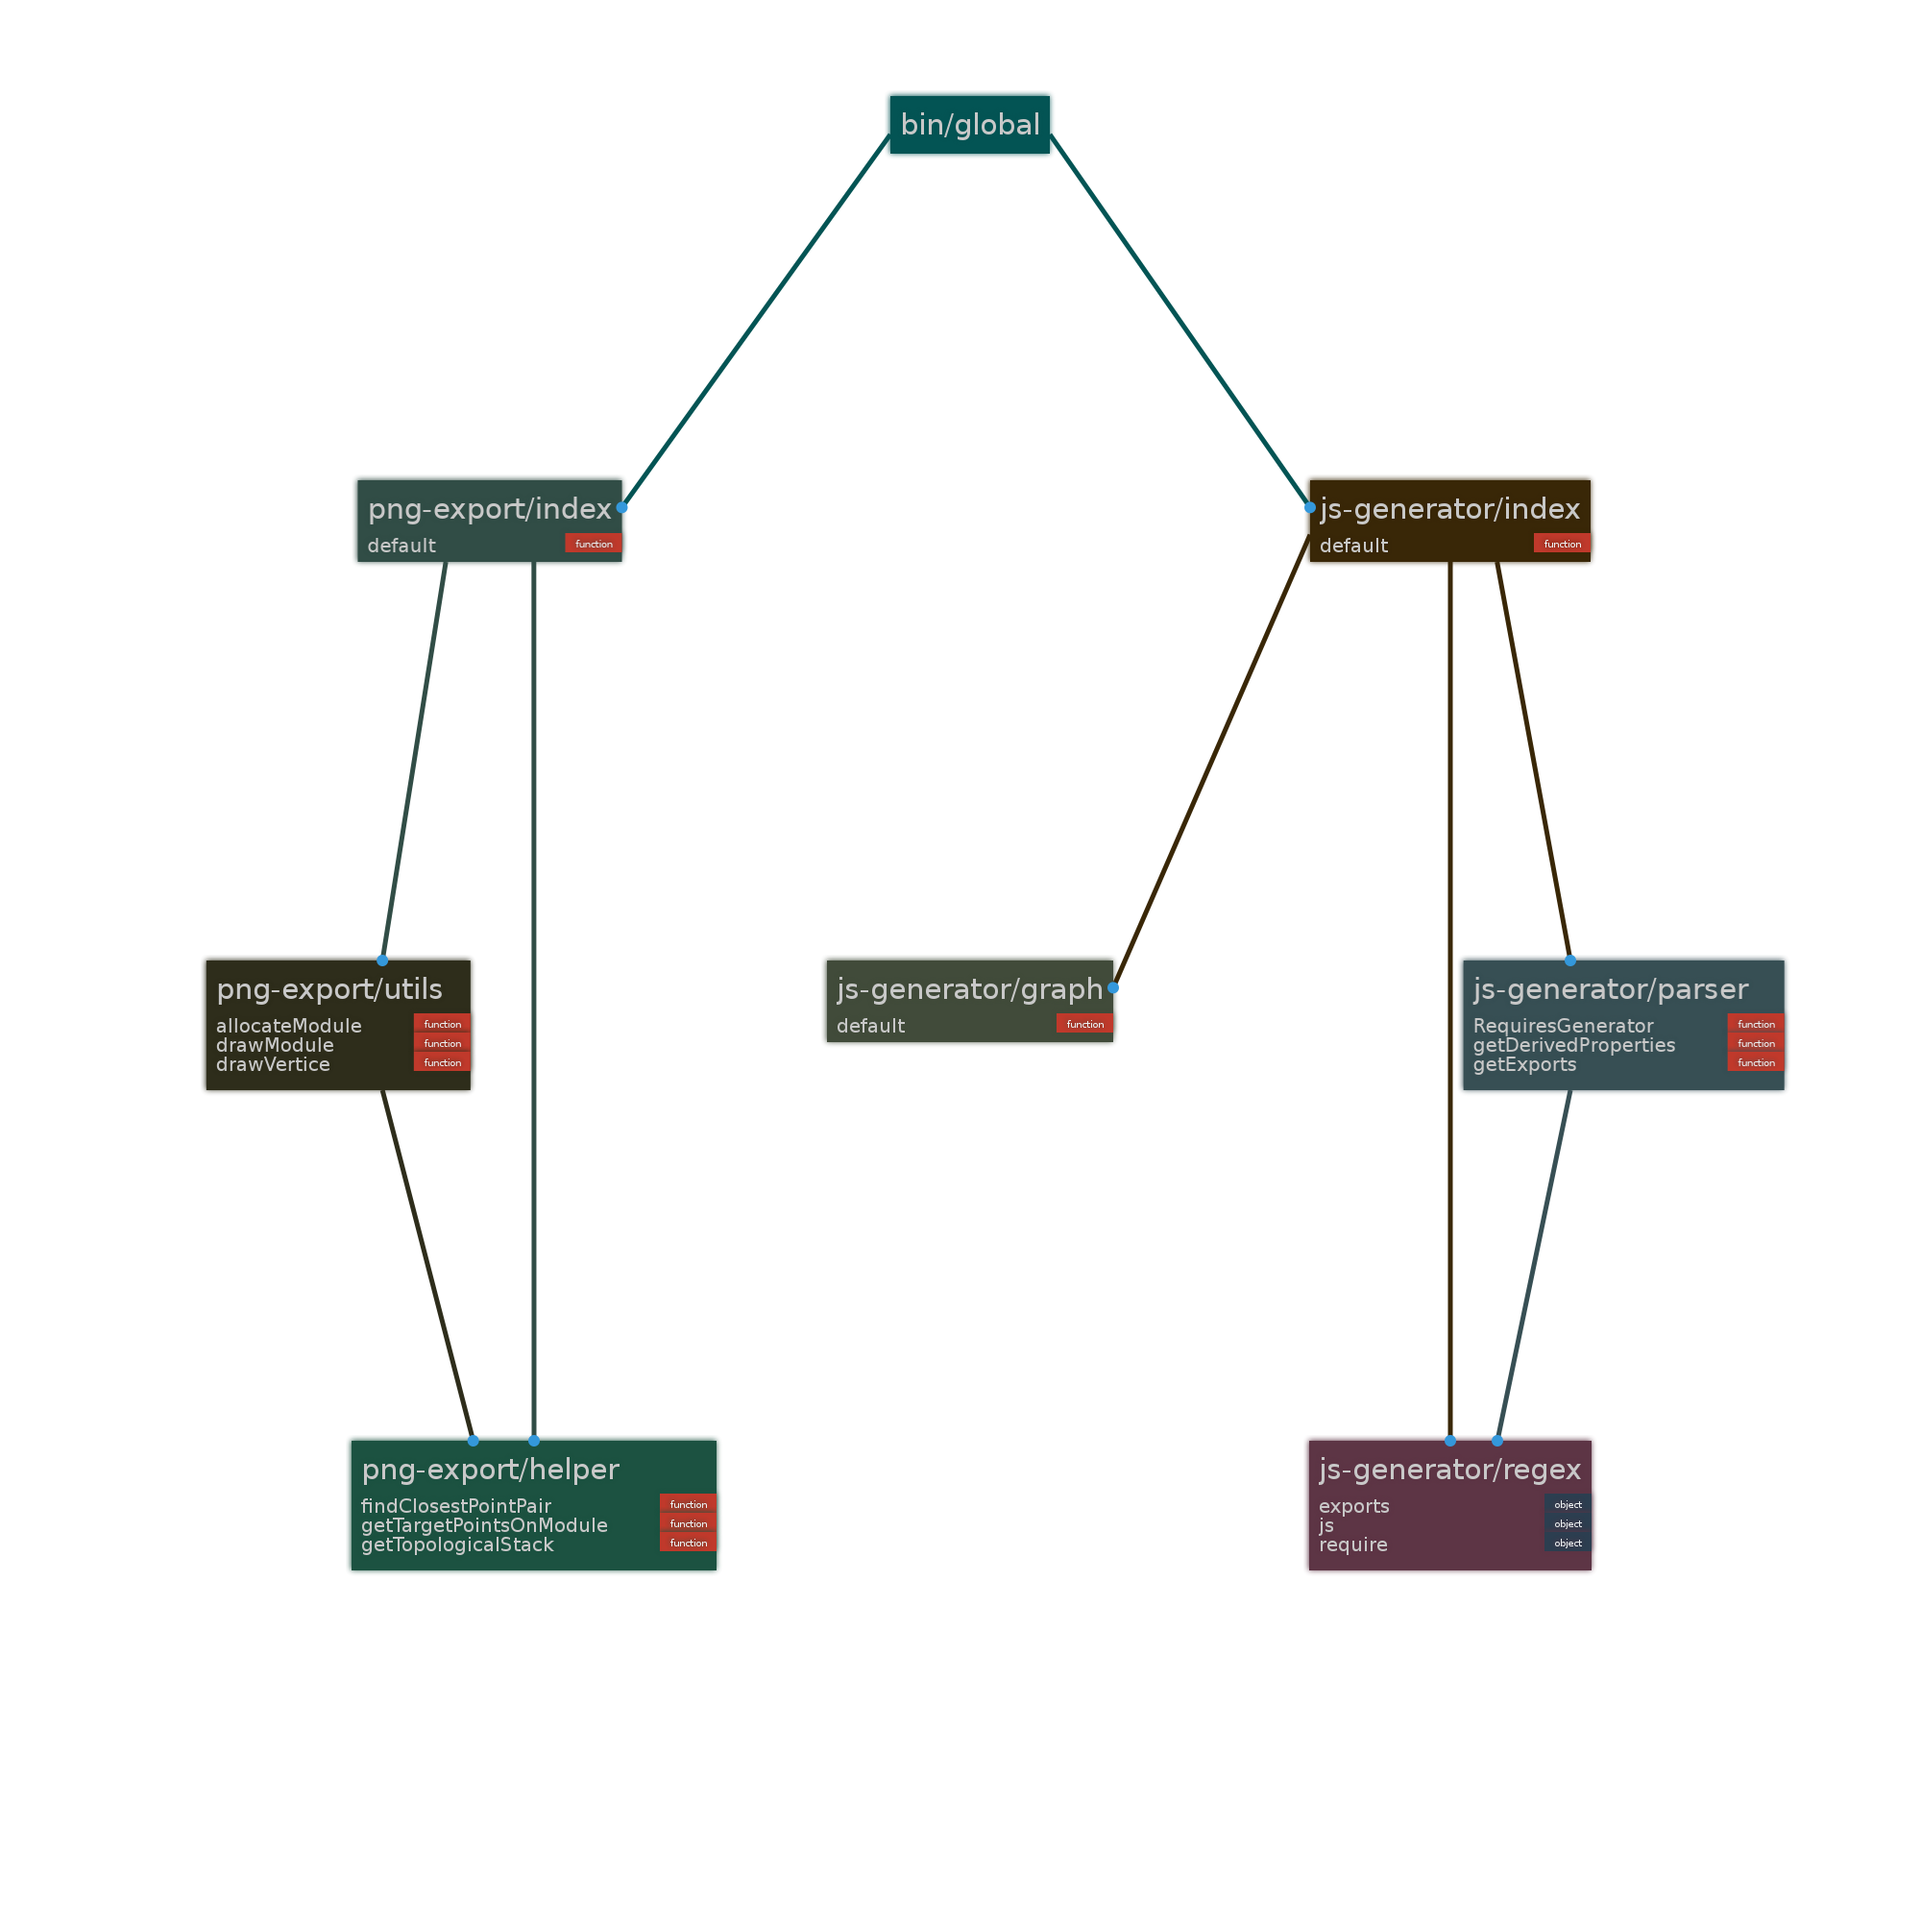
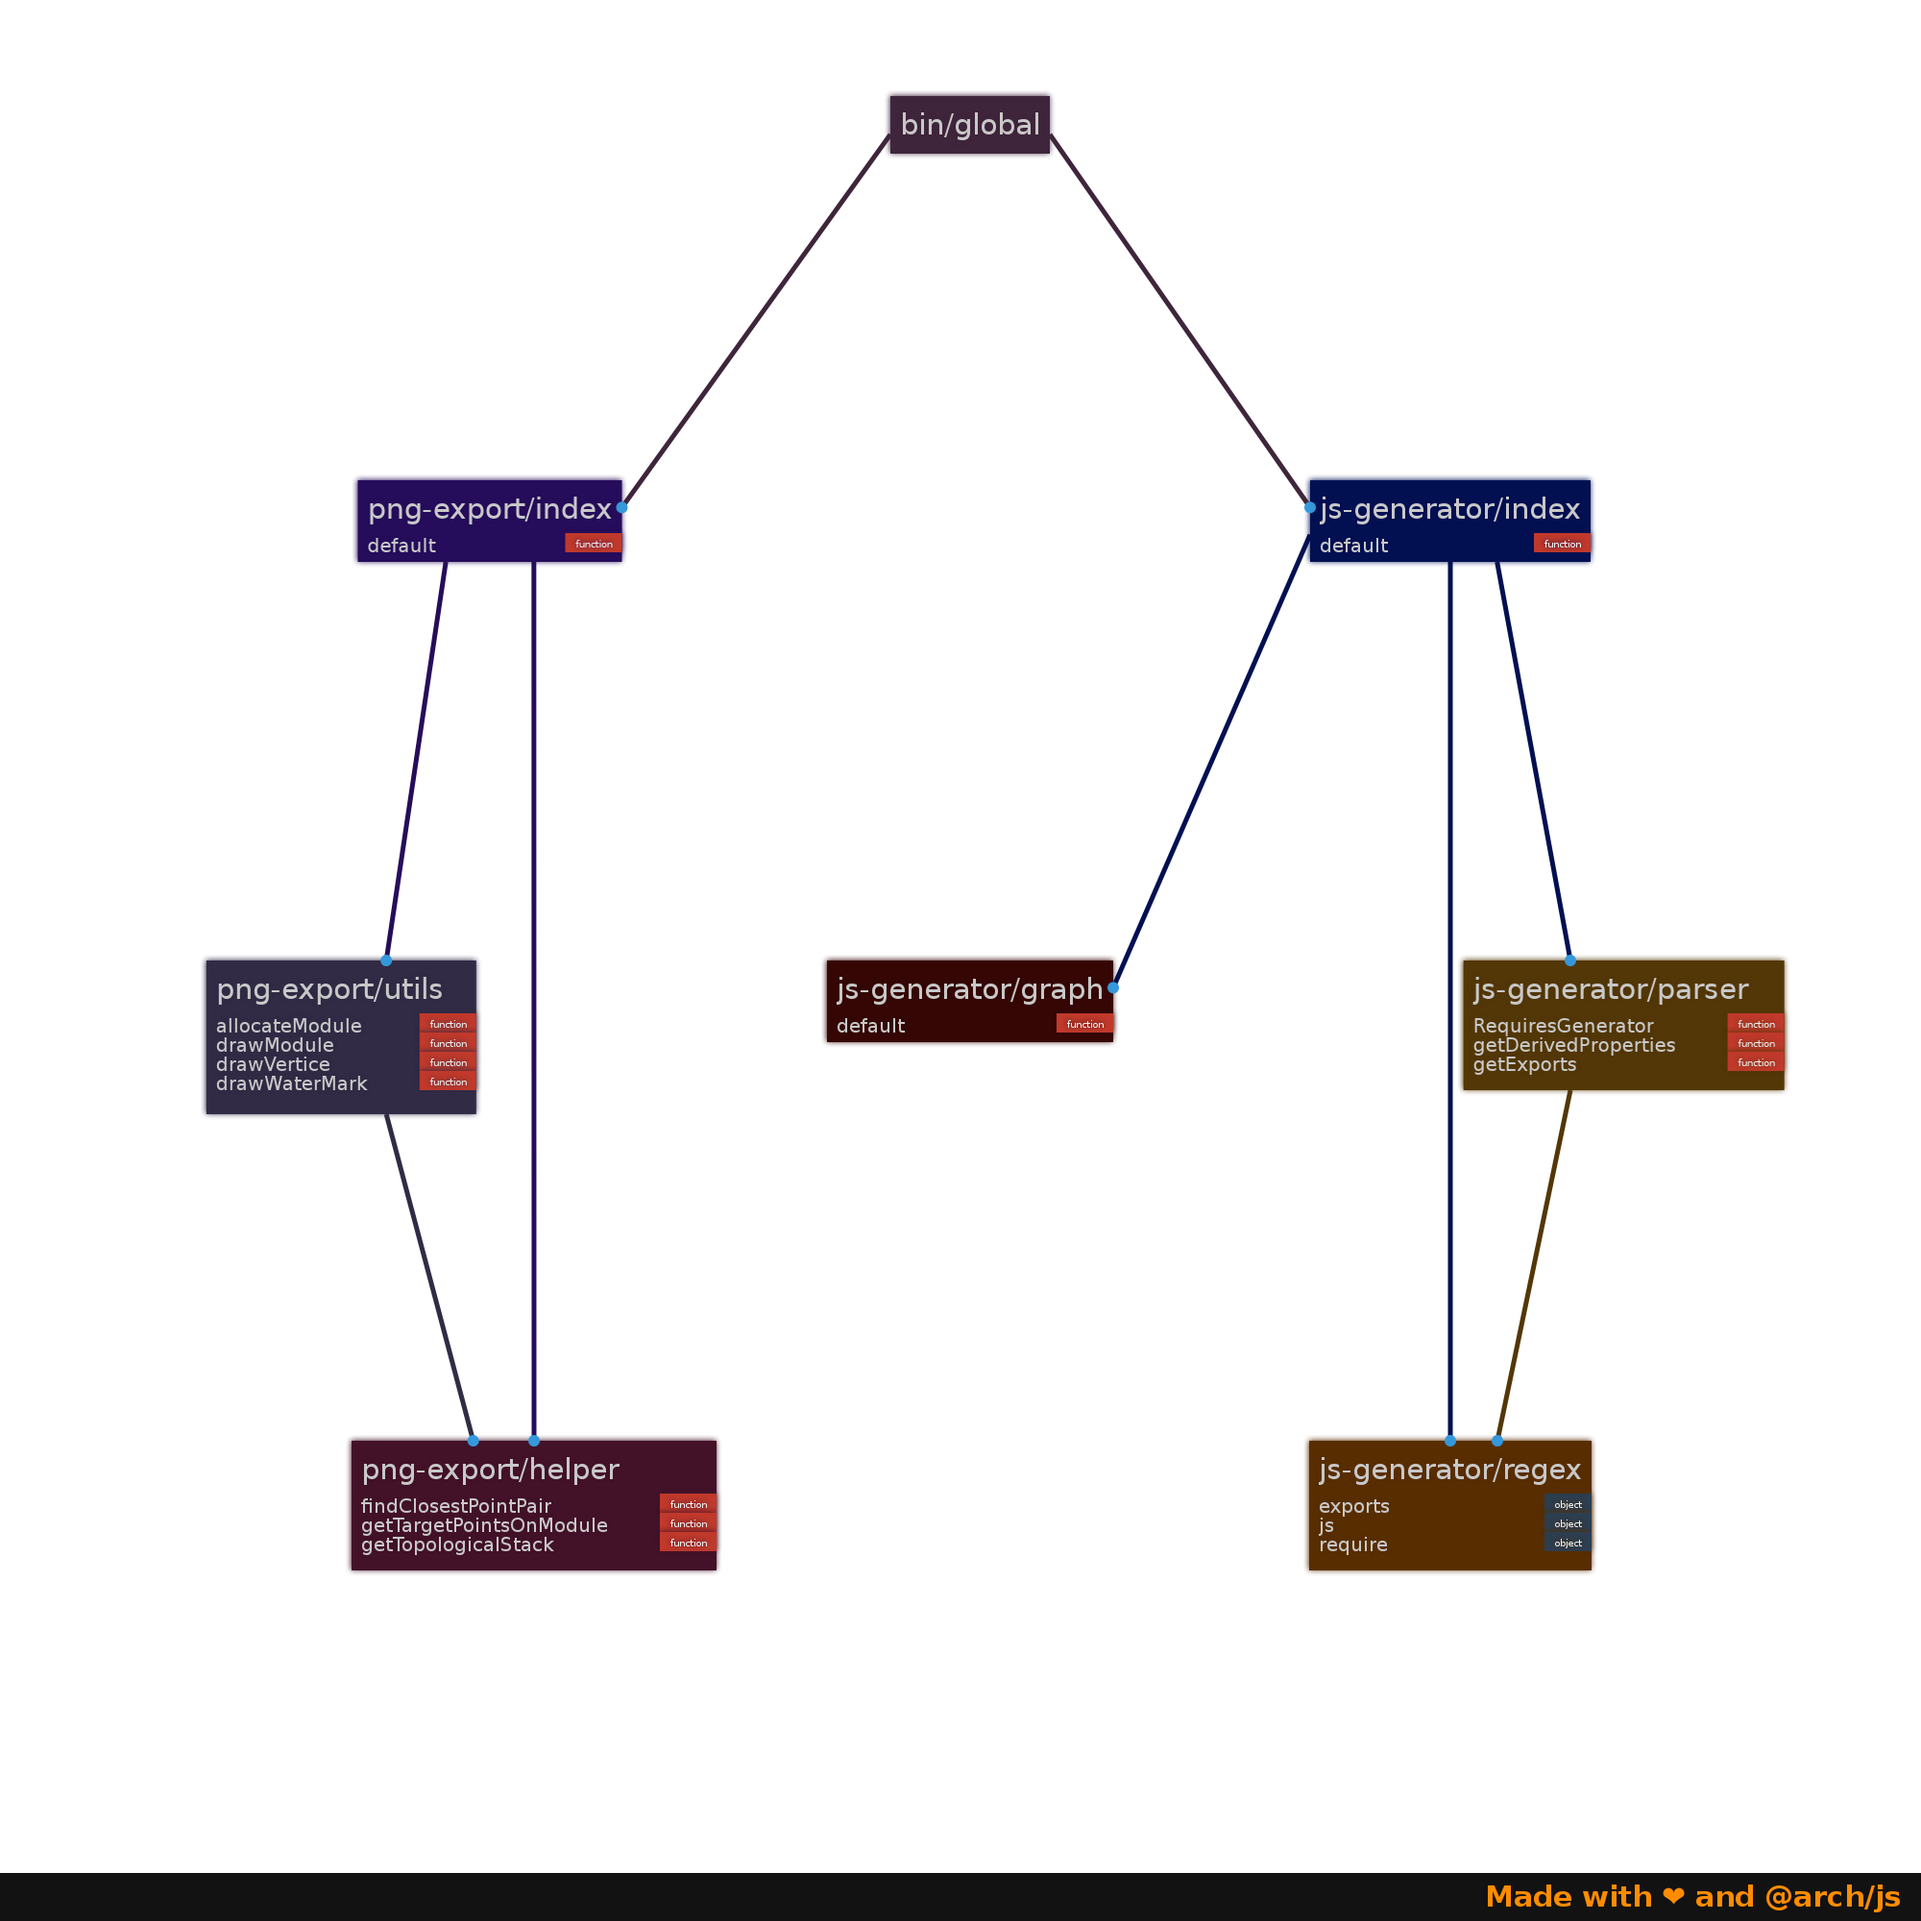
Added watermarks for generated images

diff --git a/src/png-export/index.js b/src/png-export/index.js
@@ -3,7 +3,7 @@ const path = require("path");
 
 const Canvas = require("canvas");
 
-const { drawVertice, drawModule, allocateModule } = require("./utils");
+const { drawVertice, drawModule, allocateModule, drawWaterMark } = require("./utils");
 const { getTopologicalStack } = require("./helper");
 
 const writeToImage = async (image, file) => {
@@ -20,7 +20,7 @@ const writeToImage = async (image, file) => {
     });
 };
 
-module.exports = async (generator, srcDir, outFilePath, width=500, height=500) => {
+module.exports = async (generator, srcDir, outFilePath, width=500, height=500, config={}) => {
     try {
         const image = new Canvas(width, height);
         const context = image.getContext("2d");
@@ -60,6 +60,11 @@ module.exports = async (generator, srcDir, outFilePath, width=500, height=500) =
             }
 
             item = iterator.next();
+        }
+
+        if(config && config.watermark) {
+            /** Draw watermark */
+            drawWaterMark(context, width, height, config.watermark);
         }
 
         // /** Output png image */

diff --git a/src/png-export/utils.js b/src/png-export/utils.js
@@ -199,8 +199,35 @@ const allocateModule = (context, module, level, posInArray, numModules, width, h
     };
 };
 
+/**
+ * Draw a watermark text on the bottom right of canvas
+ * @param {CanvasRenderingContext2D} context 2D context of canvas object
+ * @param {Number} width Width of canvas
+ * @param {Number} height Height of canvas
+ * @param {String} text text to show as watermark
+ */
+const drawWaterMark = (context, width, height, text) => {
+    context.save();
+    
+    context.font = "bold 30px Impact";
+    const size = context.measureText(text);
+
+    // Add margin of 20px to right 
+    const startPosition = width - size.width - 20;
+
+    /** Draw a dark background banner for watermark */
+    context.fillStyle = "#121212";
+    context.fillRect(0, height - 50, width, height);
+
+    /** Write text */
+    context.fillStyle = "#FF8C00";
+    context.fillText(text, startPosition,  height - 15);
+    context.restore();
+};
+
 module.exports = {
     drawVertice,
     drawModule,
-    allocateModule
+    allocateModule,
+    drawWaterMark
 };

diff --git a/bin/global.js b/bin/global.js
@@ -12,16 +12,23 @@ program
     .option("-S, --src <path>", "Root path of source application", process.cwd())
     .option("-W, --width <n>", "Root path of source application", parseInt)
     .option("-H, --height <n>", "Root path of source application", parseInt)
+    .option("--watermark [text]", "Add custom watermark")
     .action(async () => {
         program.width = program.width || 3000;
         program.height = program.height || 3000;
+        const watermarkText = "Made with ❤ and @arch/js";
+
+        const config = {
+            watermark: program.watermark === true ? watermarkText: program.watermark
+        };
 
         PNGExport(
             JsGenerator,
             path.join(program.src),
             path.join(program.out, "out.png"),
             program.width,
-            program.height
+            program.height,
+            config
         )
         .then(() => console.log("Generated architecture at " + path.join(program.out, "out.png")))
         .catch(err => console.error("Failed: ", err));

diff --git a/README.md b/README.md
@@ -15,11 +15,12 @@ Usage: arch-js [options]
 
 Options:
 
--O, --out <path>  Output path of generated image (default: <current-dir>)
--S, --src <path>  Root path of source application (default: <current-dir>)
--W, --width <n>   Root path of source application
--H, --height <n>  Root path of source application
--h, --help        output usage information
+-O, --out <path>    Output path of generated image (default: <current-dir>)
+-S, --src <path>    Root path of source application (default: <current-dir>)
+-W, --width <n>     Root path of source application
+-H, --height <n>    Root path of source application
+--watermark [text]  Add custom watermark
+-h, --help          output usage information
 ```
 
 ## Project Architecture
